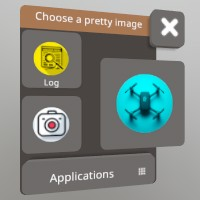
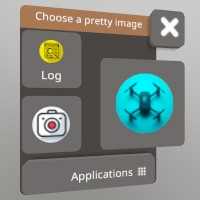
PR 1357 about round buttons. Screen tool improved

diff --git a/src/framework/screen.rs b/src/framework/screen.rs
@@ -8,7 +8,7 @@ use crate::{
     sk::MainThreadToken,
     sound::{Sound, SoundInst},
     sprite::Sprite,
-    system::{Input, Lines, Renderer},
+    system::{Align, Input, Lines, Renderer, TextFit},
     tex::Tex,
     ui::{Ui, UiBtnLayout, UiMove, UiWin},
 };
@@ -87,6 +87,14 @@ pub struct Screen {
     sound_right_inst: Option<SoundInst>,
 
     openxr_swapchain: Option<Swapchain>,
+
+    /// Text displayed via [`Ui::text_at`] inside the control window on every frame.
+    /// Set with [`Screen::set_overlay_text`]. Empty string disables the display.
+    overlay_text: String,
+
+    /// Optional callback invoked at the end of the params panel (when the hamburger menu is open).
+    /// Set with [`Screen::set_extra_param_ui`].
+    extra_param_ui: Option<Box<dyn FnMut() + Send + 'static>>,
 }
 
 unsafe impl Send for Screen {}
@@ -129,6 +137,9 @@ impl Screen {
             sound_right_inst: None,
 
             openxr_swapchain: None,
+
+            overlay_text: String::new(),
+            extra_param_ui: None,
         };
 
         let screen_tex = screen_tex.as_ref().clone_ref();
@@ -224,6 +235,37 @@ impl Screen {
         self
     }
 
+    /// Set text to display inside the control window on every frame via [`Ui::text_at`].
+    /// Inspired by the FPS overlay in `video1.rs`. Pass an empty string to clear.
+    ///
+    /// # Example
+    /// ```ignore
+    /// screen.set_overlay_text(format!("{:.0} FPS", fps));
+    /// ```
+    pub fn set_overlay_text(&mut self, text: impl Into<String>) -> &mut Self {
+        self.overlay_text = text.into();
+        self
+    }
+
+    /// Register a closure that will be called at the end of the params panel (hamburger menu).
+    /// Use it to append extra sliders, toggles, or labels without subclassing `Screen`.
+    ///
+    /// The closure is called on every frame while the panel is open, via `Option::take` to
+    /// avoid borrow conflicts with the rest of `Screen`.
+    ///
+    /// # Example
+    /// ```ignore
+    /// screen.set_extra_param_ui(move || {
+    ///     Ui::label("Quality", None, true);
+    ///     Ui::same_line();
+    ///     Ui::hslider("quality", &mut quality, 0.0, 1.0, None, None, None, None);
+    /// });
+    /// ```
+    pub fn set_extra_param_ui(&mut self, f: impl FnMut() + Send + 'static) -> &mut Self {
+        self.extra_param_ui = Some(Box::new(f));
+        self
+    }
+
     /// Set the current texture index (0 or 1)
     pub fn set_tex_curr(&mut self, tex_index: usize) -> &mut Self {
         if tex_index < 2 {
@@ -267,7 +309,7 @@ impl Screen {
 
         let bounds = self.screen.get_bounds();
 
-        let factor_size = (self.screen_distance.max(1.0).powf(2.0) + self.screen_diagonal.max(1.0).powf(2.0)).sqrt();
+        let factor_size = self.factor_size();
 
         let grab_position = Vec3::new(
             0.0, //
@@ -358,27 +400,59 @@ impl Screen {
             {
                 self.screen_flattening(new_value);
             }
+
+            // Invoke the user-supplied extra parameter UI (e.g. quality sliders, mode toggles).
+            // Uses `take` + restore to avoid a simultaneous borrow of `self`.
+            if let Some(mut f) = self.extra_param_ui.take() {
+                f();
+                self.extra_param_ui = Some(f);
+            }
+
+            Ui::window_end();
         } else {
             let info_position = Vec3::new(
                 0.0, //
                 self.screen_size.y / 2.0 + 0.04 * factor_size,
                 bounds.center.z,
             );
-            let mut window_pose = Pose::new(info_position, None) * screen_transform;
-            Ui::window_begin(&self.repo.id_window_param, &mut window_pose, None, Some(UiWin::Body), Some(UiMove::None));
+            let button_pose = Pose::new(info_position, None) * screen_transform;
+            let d = self.screen_distance;
+            let btn_size = Vec2::new(0.06 * d.sqrt(), 0.06 * d.sqrt());
+            let surface_size = btn_size * 1.1;
+            Ui::push_surface(button_pose, Vec3::X * 0.03 * d.sqrt(), surface_size);
             if Ui::button_img(
                 &self.repo.id_btn_show_hide_param,
                 &self.repo.sprite_show_param,
                 Some(UiBtnLayout::CenterNoText),
-                Some(Vec2::new(0.03 * factor_size, 0.03 * factor_size)),
+                Some(btn_size),
                 None,
             ) {
                 self.repo.show_param = true;
                 let head = Input::get_head();
                 self.screen_pose.position = head.position;
             }
+            Ui::pop_surface();
         }
-        Ui::window_end();
+
+        // Overlay text — rendered on its own surface anchored above the screen centre,
+        // independent of the control window state.
+        if !self.overlay_text.is_empty() {
+            let overlay_y = self.screen_size.y / 2.0 + 0.04 * factor_size;
+            let overlay_pos = Vec3::new(-0.05, overlay_y, bounds.center.z);
+            let overlay_pose = Pose::new(overlay_pos, None) * screen_transform;
+            Ui::push_surface(overlay_pose, Vec3::ZERO, Vec2::ZERO);
+            Ui::text(
+                &self.overlay_text,
+                None,
+                None,
+                Some(0.04 * self.screen_distance),
+                Some(0.15 * self.screen_distance),
+                Some(Align::Center),
+                Some(TextFit::Exact),
+            );
+            Ui::pop_surface();
+        }
+
         screen_transform
     }
 
@@ -649,5 +723,35 @@ impl Screen {
     /// Get the current ray thickness
     pub fn get_ray_thickness(&self) -> f32 {
         self.ray_thickness
+    }
+
+    /// Shared factor used to scale UI elements relative to screen distance and diagonal.
+    fn factor_size(&self) -> f32 {
+        (self.screen_distance.max(1.0).powf(2.0) + self.screen_diagonal.max(1.0).powf(2.0)).sqrt()
+    }
+
+    /// Returns a world-space [`Pose`] at the top-centre edge of the screen. The window origin is placed just above the
+    /// top edge, outside the screen content area, at the same height as the compact hamburger button.
+    /// `offset` is added in screen-local space before applying the screen transform, allowing the caller to shift the
+    /// pose horizontally to avoid overlapping other windows.
+    /// Useful for anchoring a UI window (e.g. transport controls) with [`UiMove::None`].
+    pub fn get_top(&self, offset: impl Into<Vec3>) -> Pose {
+        let bounds = self.screen.get_bounds();
+        let factor_size = self.factor_size();
+        let screen_transform = self.screen_pose.to_matrix(None);
+        let pos = Vec3::new(0.0, self.screen_size.y / 2.0 + 0.04 * factor_size, bounds.center.z) + offset.into();
+        Pose::new(pos, None) * screen_transform
+    }
+
+    /// Returns a world-space [`Pose`] at the bottom-centre edge of the screen. The window origin is placed just below
+    /// the bottom edge, outside the screen content area. `offset` is added in screen-local space before applying the
+    /// screen transform.
+    /// Useful for anchoring a UI window (e.g. status bar) with [`UiMove::None`].
+    pub fn get_bottom(&self, offset: impl Into<Vec3>) -> Pose {
+        let bounds = self.screen.get_bounds();
+        let factor_size = self.factor_size();
+        let screen_transform = self.screen_pose.to_matrix(None);
+        let pos = Vec3::new(0.0, -(self.screen_size.y / 2.0 + 0.04 * factor_size), bounds.center.z) + offset.into();
+        Pose::new(pos, None) * screen_transform
     }
 }

diff --git a/examples/demos/screen1.rs b/examples/demos/screen1.rs
@@ -1,5 +1,8 @@
 use openxr_sys::SwapchainUsageFlags;
-use std::rc::Rc;
+use std::{
+    rc::Rc,
+    sync::{Arc, Mutex},
+};
 use stereokit_rust::{
     font::Font,
     framework::Screen,
@@ -12,7 +15,7 @@ use stereokit_rust::{
     tex::{Tex, TexFormat},
     tools::xr_comp_layers::{SwapchainSk, XrCompLayers},
     ui::{Ui, UiBtnLayout},
-    util::{Color32, Time, named_colors::RED},
+    util::{Color32, Color128, Time, named_colors::RED},
 };
 
 /// Demo test for Screen: sound playback (right / left) and a choice between
@@ -27,13 +30,20 @@ pub struct Screen1 {
     textures: Vec<Tex>,
     current_texture_index: usize,
     last_switch_time: f32,
-    switch_interval: f32,
+    /// Shared with the `extra_param_ui` closure so the slider can mutate it.
+    switch_interval: Arc<Mutex<f32>>,
+    paused: bool,
 
     // Display mode: texture (default) or swapchain quad-layer
     use_swapchain: bool,
     swapchain_sk: Option<SwapchainSk>,
     tex_width: usize,
     tex_height: usize,
+
+    sprite_prev: Sprite,
+    sprite_next: Sprite,
+    sprite_play: Sprite,
+    sprite_pause: Sprite,
 
     window_pose: Pose,
     pub text: String,
@@ -78,12 +88,18 @@ impl Default for Screen1 {
             textures,
             current_texture_index: 0,
             last_switch_time: 0.0,
-            switch_interval: 3.0,
+            switch_interval: Arc::new(Mutex::new(3.0)),
+            paused: false,
 
             use_swapchain: false,
             swapchain_sk: None,
             tex_width: 0,
             tex_height: 0,
+
+            sprite_prev: Sprite::arrow_left(),
+            sprite_next: Sprite::arrow_right(),
+            sprite_play: Sprite::toggle_off(),
+            sprite_pause: Sprite::toggle_on(),
 
             window_pose: Pose::new(Vec3::new(-0.3, 1.5, -0.6), Some(Quat::Y_180)),
             text: "Screen1".to_owned(),
@@ -105,6 +121,19 @@ impl Screen1 {
             self.tex_width = w;
             self.tex_height = h;
         }
+
+        // Register the slide-speed slider inside Screen's hamburger panel.
+        // The closure captures a clone of the Arc so it can read/write switch_interval
+        // without borrowing self (required by the 'static + Send bound).
+        let shared_interval = Arc::clone(&self.switch_interval);
+        self.screen.set_extra_param_ui(move || {
+            let mut interval = shared_interval.lock().unwrap();
+            Ui::label("Slide speed", None, true);
+            Ui::same_line();
+            Ui::label(format!("{:.1}s", *interval), None, true);
+            Ui::same_line();
+            Ui::hslider("slide_interval", &mut interval, 0.5, 10.0, None, None, None, None);
+        });
 
         // Create an OpenXR swapchain when the backend supports it.
         if Backend::xr_type() == BackendXRType::OpenXR
@@ -135,9 +164,22 @@ impl Screen1 {
 
     fn draw(&mut self, token: &MainThreadToken) {
         let current_time = Time::get_totalf();
+        let interval = *self.switch_interval.lock().unwrap();
+
+        // Show current image index and time remaining until next switch in Screen's overlay.
+        let n = self.textures.len();
+        let remaining = (interval - (current_time - self.last_switch_time)).max(0.0);
+        self.screen.set_overlay_text(format!(
+            "{}/{} | {:.1}s / {:.1}s{}",
+            self.current_texture_index + 1,
+            n,
+            remaining,
+            interval,
+            if self.paused { " [PAUSED]" } else { "" },
+        ));
 
         // Auto-advance textures every switch_interval seconds.
-        if current_time - self.last_switch_time > self.switch_interval {
+        if !self.paused && current_time - self.last_switch_time > interval {
             self.next_texture();
             self.last_switch_time = current_time;
 
@@ -178,6 +220,40 @@ impl Screen1 {
 
         // Draw the Screen: submits a quad-layer if a swapchain is set, otherwise renders the mesh.
         self.screen.draw(token);
+
+        // Video-player transport controls anchored just above the screen via get_top().
+        let d = self.screen.get_screen_distance();
+        let btn_size = Vec2::new(0.06 * d.sqrt(), 0.06 * d.sqrt());
+        let surface_size = Vec2::new(0.4 * d, 0.1 * d);
+        let controls_pose = self.screen.get_top(Vec3::new(0.30 * d.sqrt(), 0.0, 0.0));
+        Ui::push_surface(controls_pose, Vec3::ZERO, surface_size);
+        // Previous
+        if Ui::button_img("prev", &self.sprite_prev, Some(UiBtnLayout::CenterNoText), Some(btn_size), None) {
+            self.prev_texture();
+            self.last_switch_time = current_time;
+        }
+        Ui::same_line();
+        // Play / Pause — green tint when playing
+        if self.paused {
+            if Ui::button_img("play", &self.sprite_play, Some(UiBtnLayout::Center), Some(btn_size), None) {
+                self.paused = false;
+                self.last_switch_time = current_time;
+            }
+        } else {
+            Ui::push_tint(Color128::new(0.3, 1.0, 0.3, 1.0));
+            let clicked = Ui::button_img("pause", &self.sprite_pause, Some(UiBtnLayout::Center), Some(btn_size), None);
+            Ui::pop_tint();
+            if clicked {
+                self.paused = true;
+            }
+        }
+        Ui::same_line();
+        // Next
+        if Ui::button_img("next", &self.sprite_next, Some(UiBtnLayout::CenterNoText), Some(btn_size), None) {
+            self.next_texture();
+            self.last_switch_time = current_time;
+        }
+        Ui::pop_surface();
 
         // Control window
         Ui::window_begin("Screen1", &mut self.window_pose, Some(Vec2::new(0.24, 0.0)), None, None);
@@ -245,6 +321,14 @@ impl Screen1 {
             return;
         }
         self.current_texture_index = (self.current_texture_index + 1) % self.textures.len();
+        self.update_display();
+    }
+
+    fn prev_texture(&mut self) {
+        if self.textures.is_empty() {
+            return;
+        }
+        self.current_texture_index = (self.current_texture_index + self.textures.len() - 1) % self.textures.len();
         self.update_display();
     }
 
